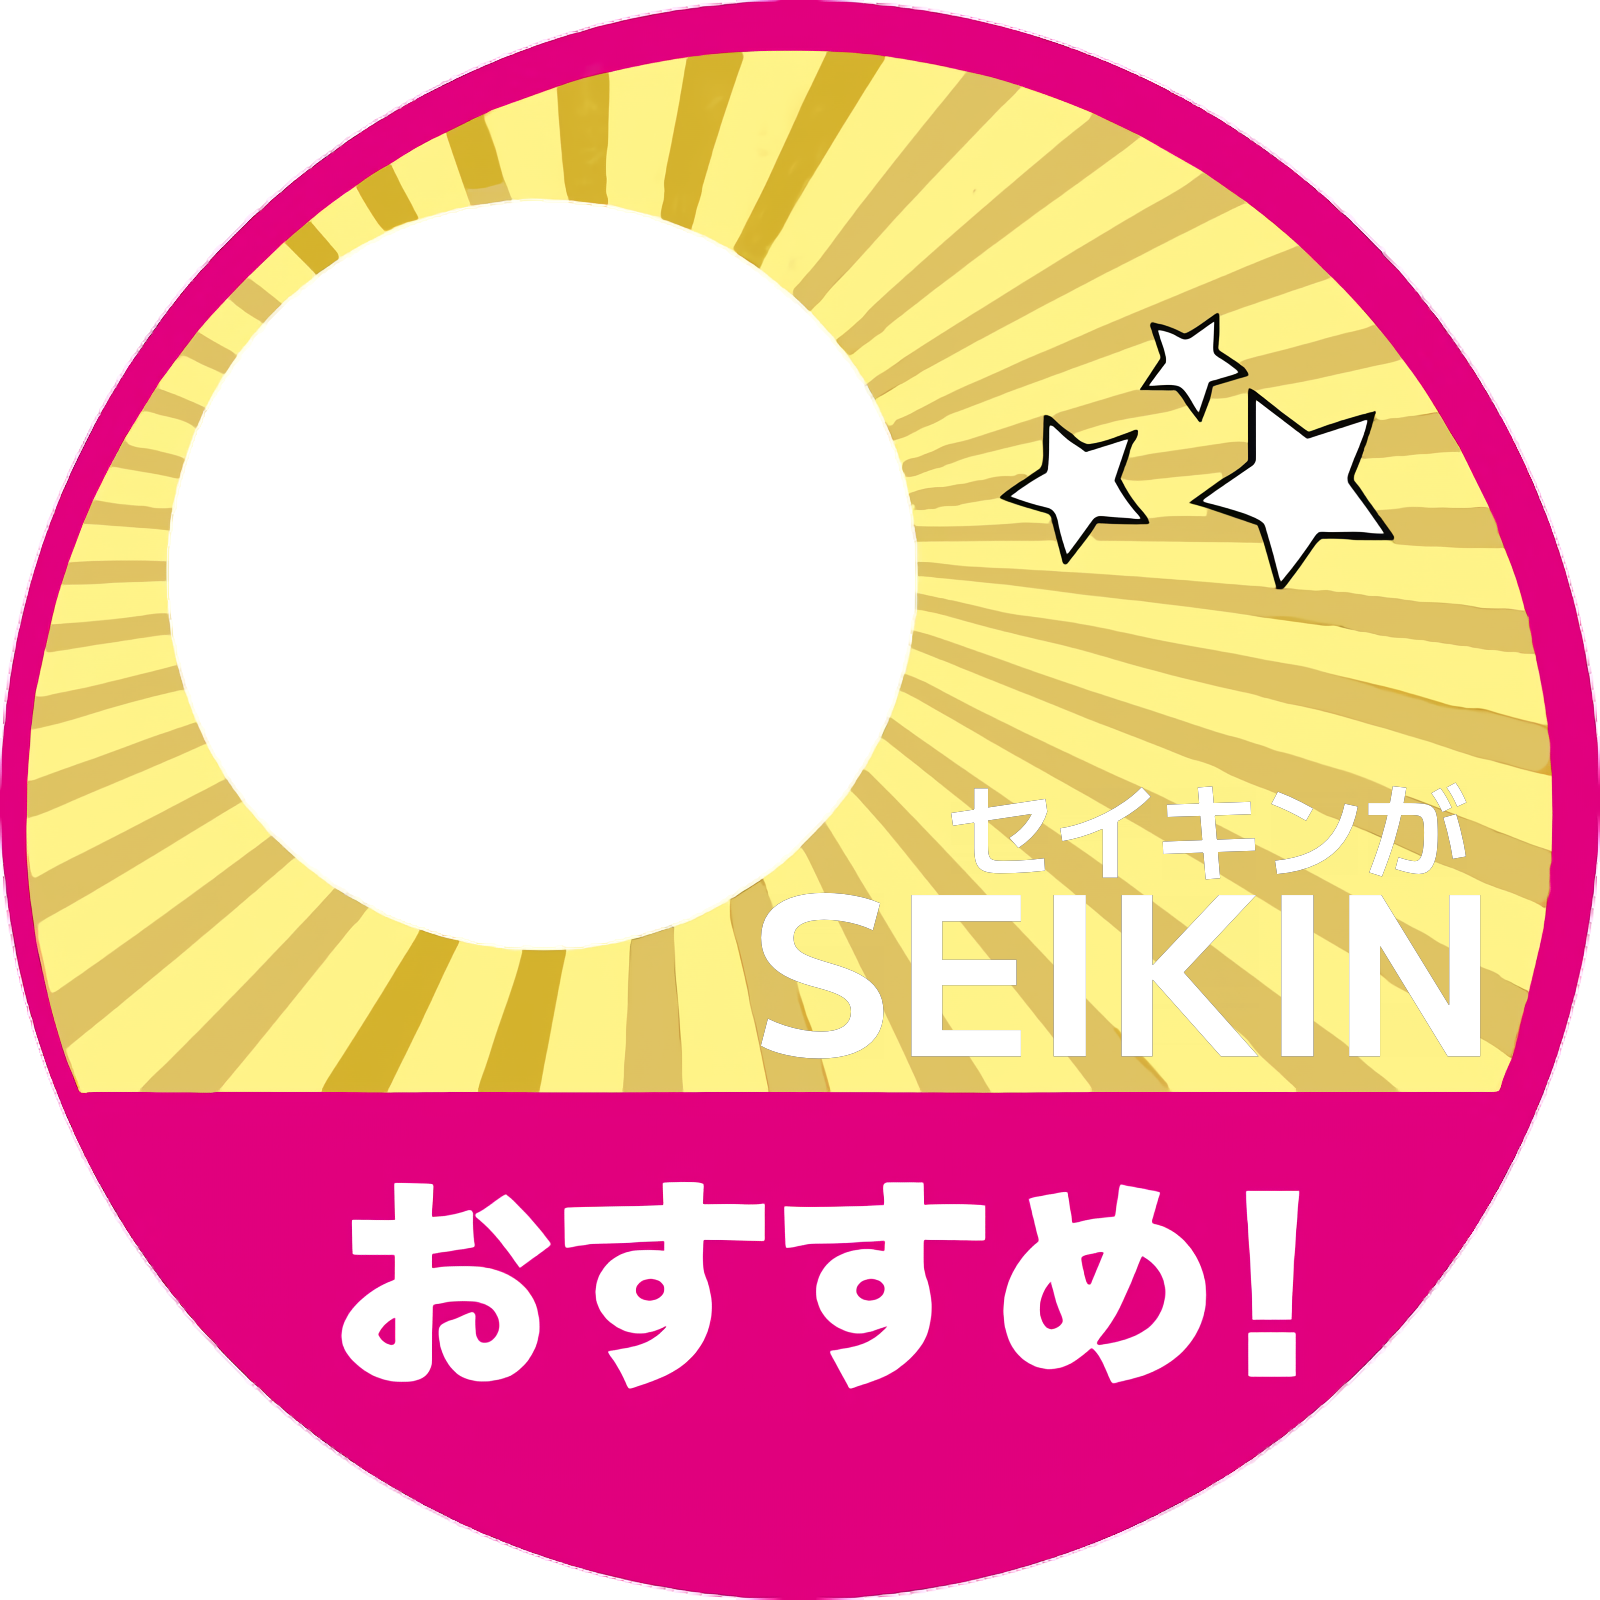
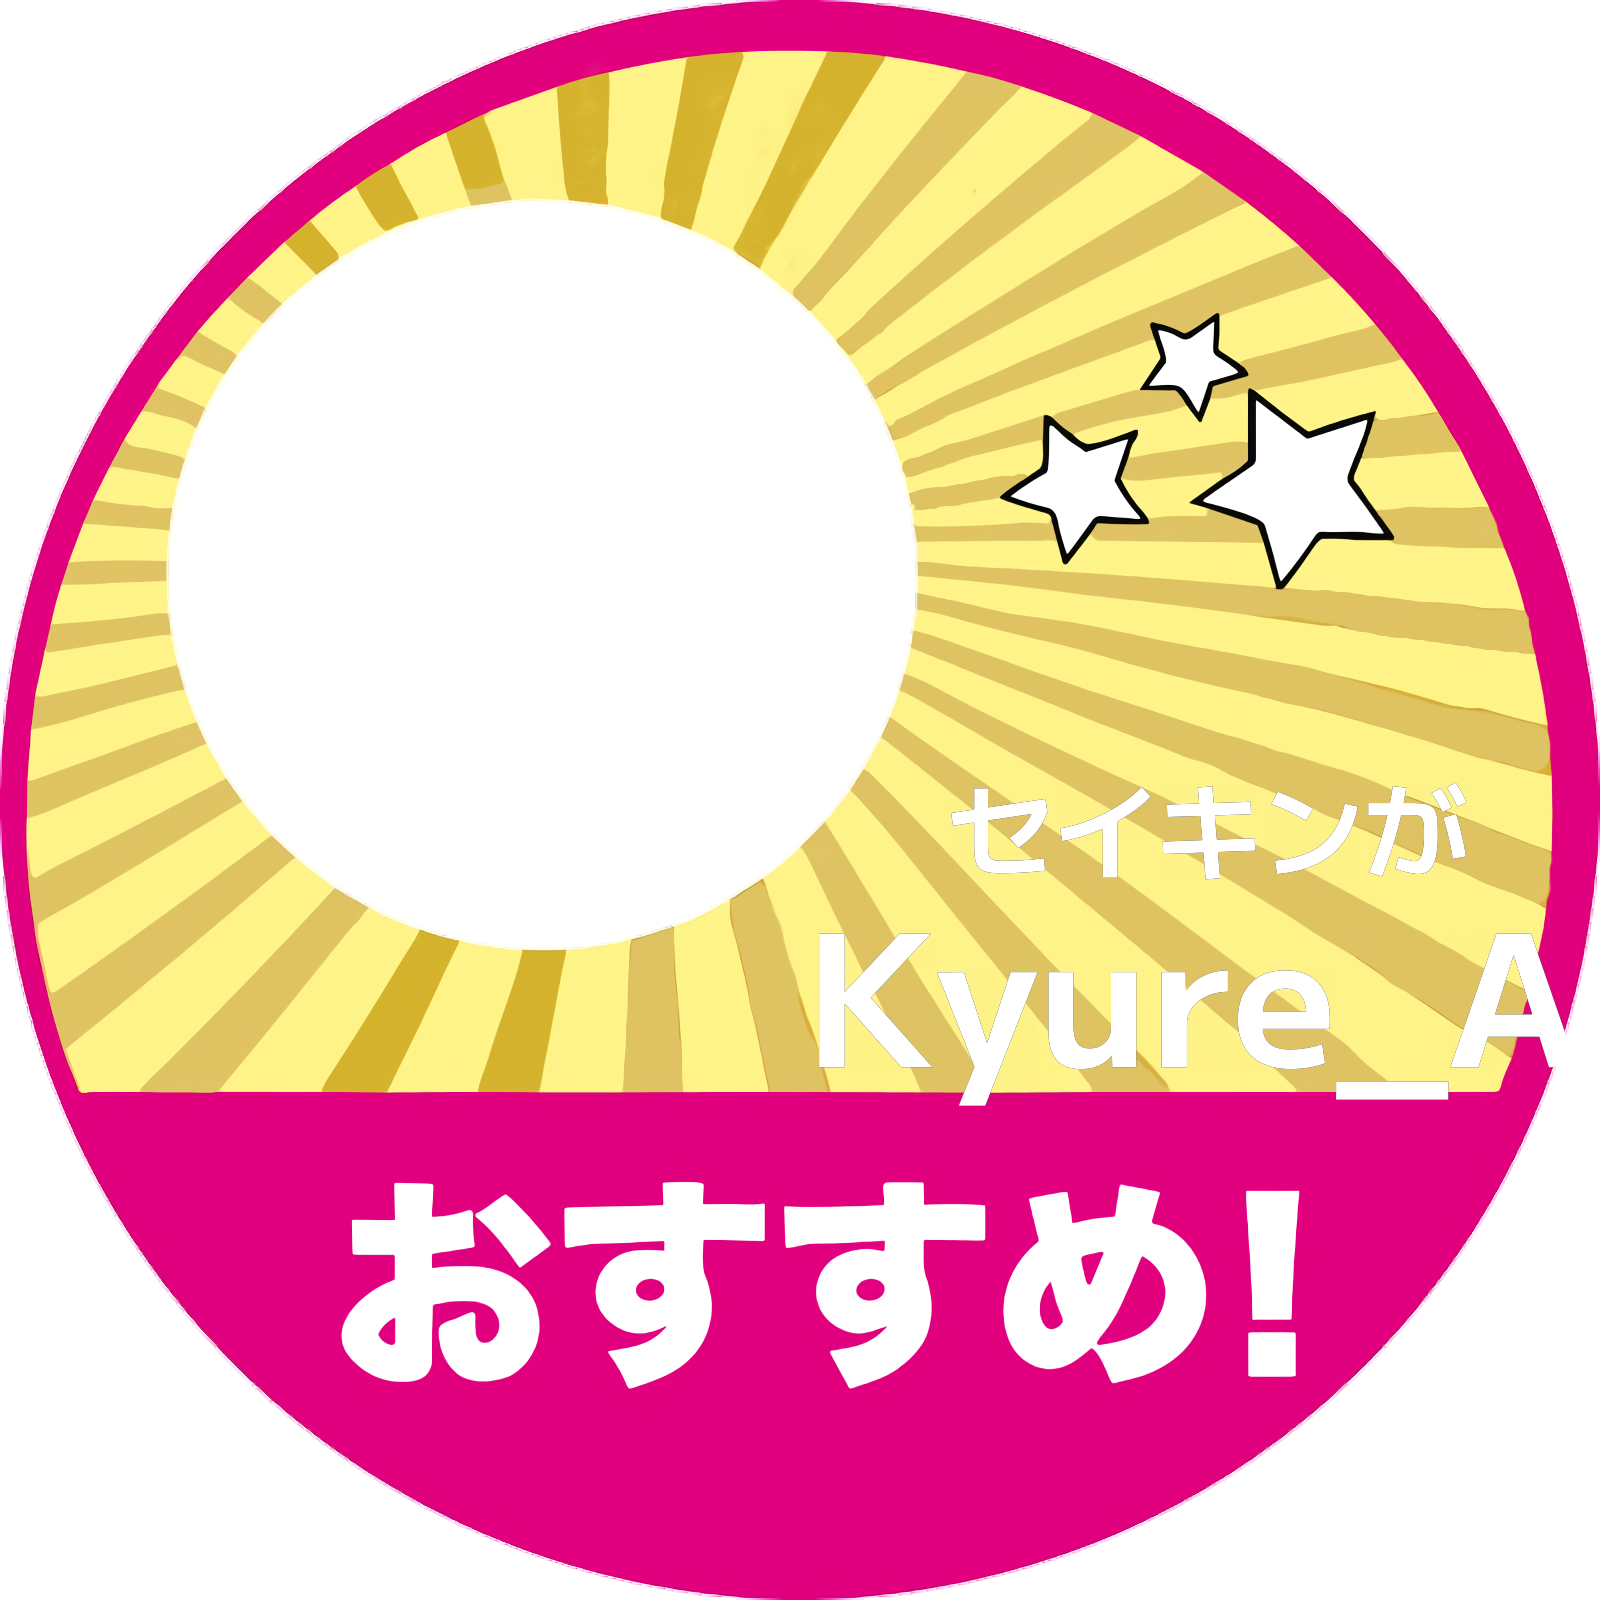
[Added] text size optimizer (working)

Changed region(s): [[0.4688, 0.5312, 1.0, 0.6875]]

diff --git a/src/main.rs b/src/main.rs
@@ -7,12 +7,22 @@ fn make_seikin(text: &str, mut image: DynamicImage) -> DynamicImage {
     let font = Vec::from(include_bytes!("../static/MPLUS1-Bold.ttf") as &[u8]);
     let font = Font::try_from_vec(font).unwrap();
     
-    let scale = Scale {
+    let mut scale = Scale {
         x: 320.0,
         y: 320.0,
     };
 
-    draw_text_mut(&mut image, Rgba([0u8, 0u8, 0u8, 0u8]), 750, 800, scale, &font, text);
+    let char_size: f32 = 55.0;
+    let standard_text_length = 6; // "SEIKIN"
+    let mut optimizer: f32 = 0.0;
+    
+    if text.len() > standard_text_length {
+	optimizer = char_size * (text.chars().count() - standard_text_length) as f32;
+	scale.x -= optimizer;
+	scale.y -= optimizer;
+    }
+
+    draw_text_mut(&mut image, Rgba([0u8, 0u8, 0u8, 0u8]), 750 + optimizer as u32, 800 + optimizer as u32, scale, &font, text);
 
     return image;
 }
@@ -22,12 +32,22 @@ fn make_seikinga(text: &str, mut image: DynamicImage) -> DynamicImage {
     let font = Vec::from(include_bytes!("../static/MPLUS1-Bold.ttf") as &[u8]);
     let font = Font::try_from_vec(font).unwrap();
     
-    let scale = Scale {
+    let mut scale = Scale {
         x: 150.0,
         y: 150.0,
     };
 
-    draw_text_mut(&mut image, Rgba([0u8, 0u8, 0u8, 0u8]), 950, 750, scale, &font, text);
+    let char_size: f32 = 25.0;
+    let standard_text_length = 5; // "セイキンが"
+    let mut optimizer: f32 = 0.0;
+    
+    if text.len() > standard_text_length {
+	optimizer = char_size * (text.chars().count() - standard_text_length) as f32;
+	scale.x -= optimizer;
+	scale.y -= optimizer;
+    }
+
+    draw_text_mut(&mut image, Rgba([0u8, 0u8, 0u8, 0u8]), 950 + optimizer as u32, 750 + optimizer as u32, scale, &font, text);
 
     return image;
 }
@@ -40,7 +60,7 @@ fn main() {
     let mut image = image::open("static/base.png").unwrap();
     
     let seikinga = "セイキンが";
-    let seikin = "SEIKIN";
+    let seikin = "Kyure_A";
 
     image = make_seikin(seikin, image.clone());
     image = make_seikinga(seikinga, image.clone());

diff --git a/README.md b/README.md
@@ -8,8 +8,13 @@
 
 ## Todo
 
+- [ ] 文字のでかさの調整
+
 - [ ] icon の描画ができるようにする
 
 - [ ] wasm で利用可能にする
 
 - [ ] FrontEnd をつくる
+
+## License
+フォントには [M+FONTS](https://mplusfonts.github.io) を使用しています。
